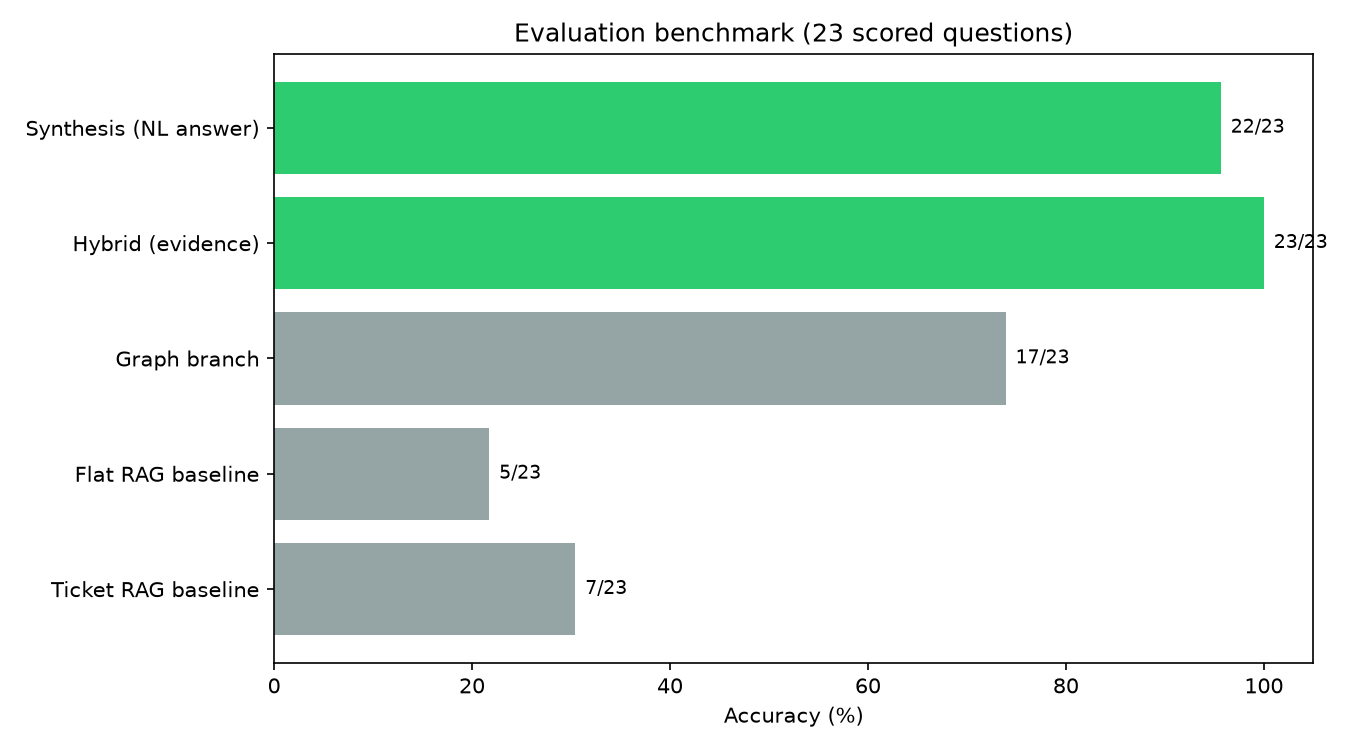
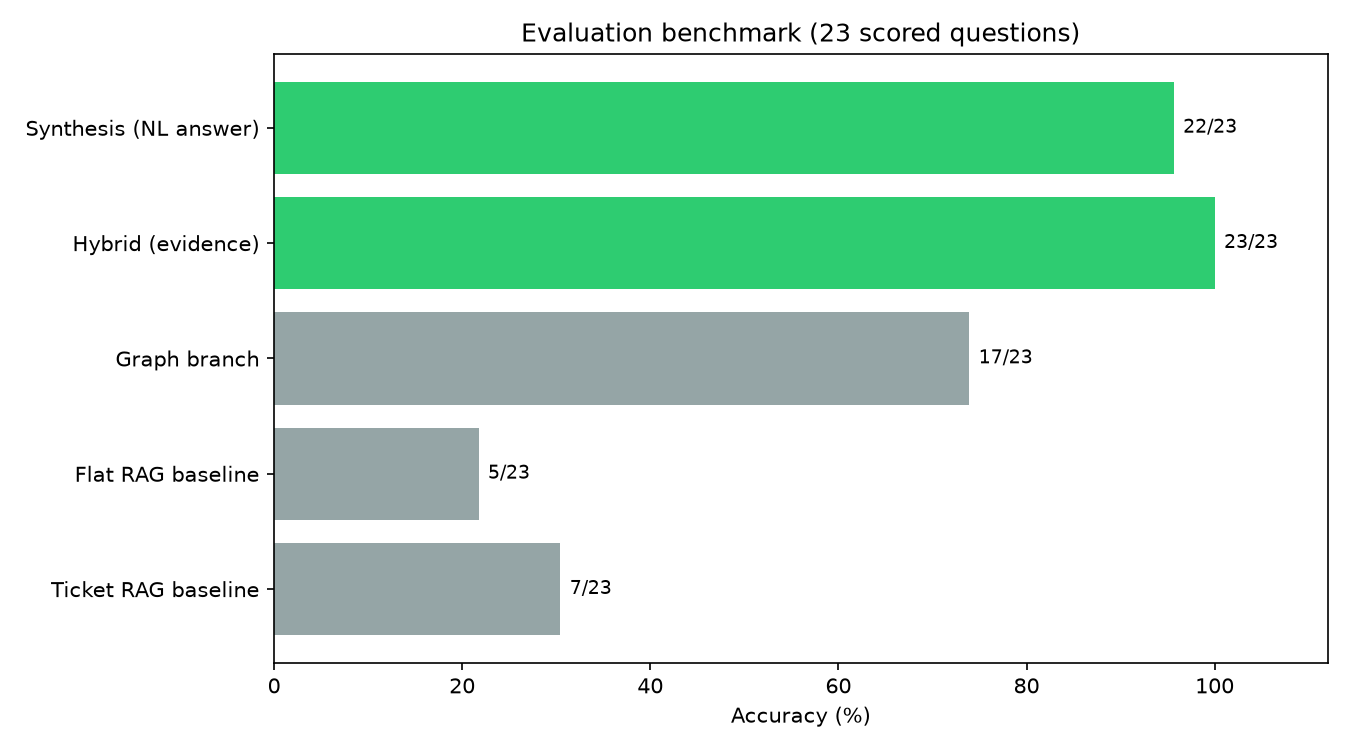
update changes

diff --git a/viz/build_charts.py b/viz/build_charts.py
@@ -43,7 +43,7 @@ def chart_benchmark_accuracy(out: Path) -> Path:
     fig, ax = plt.subplots(figsize=(9, 5))
     colors = ["#2ecc71" if "Synthesis" in lbl or "Hybrid" in lbl else "#95a5a6" for lbl in labels]
     bars = ax.barh(labels, pcts, color=colors)
-    ax.set_xlim(0, 105)
+    ax.set_xlim(0, 112)
     ax.set_xlabel("Accuracy (%)")
     ax.set_title("Evaluation benchmark (23 scored questions)")
     ax.invert_yaxis()

diff --git a/README.md b/README.md
@@ -64,12 +64,13 @@ Northwind is public sample data; tickets are synthetic, generated by `data/gener
 | Graph branch alone | 17/23 | Graph results alone contain the answer |
 | Ticket branch alone | 5/23 | Ticket text alone contains the answer |
 | Flat RAG baseline | 5/23 | One sentence per order, no graph |
+| Ticket RAG baseline | 7/23 | Full ticket search, no graph |
 
 | Comparison | Delta |
 |---|---:|
-| Graph over flat RAG | +12 questions |
-| Graph over ticket search | +14 questions |
-| Hybrid over graph alone | +6 questions |
+| Graph vs flat RAG | +12 questions (17 vs 5) |
+| Graph vs ticket RAG | +10 net (17 vs 7): graph right on 14 that ticket RAG missed, ticket RAG right on 4 that graph missed |
+| Hybrid vs graph alone | +6 questions (23 vs 17) |
 
 ## Ticket retrieval
 
